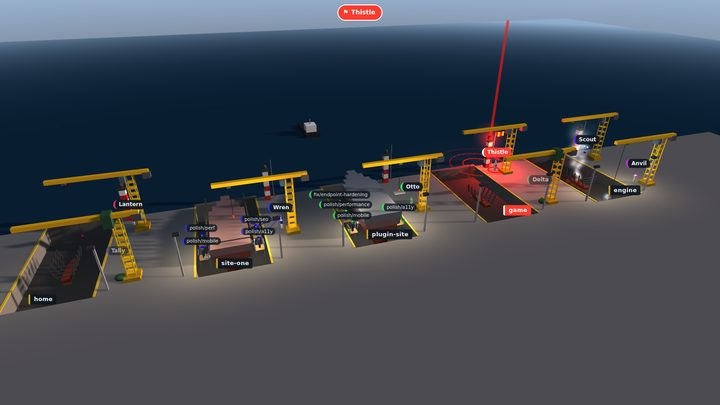
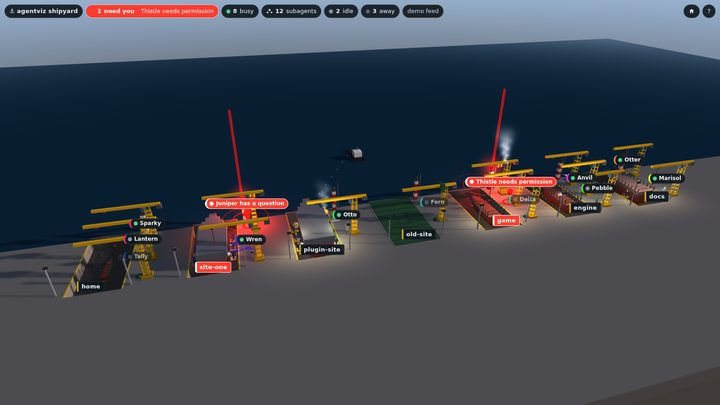
Gallery: hero shots after the kit rollout
Claude-Session: https://claude.ai/code/session_01LYNeukFY6qMGdbKQJnTwr8

Changed region(s): [[0.0, 0.0, 1.0, 0.8], [0.9472, 0.0, 1.0, 0.0593], [0.3972, 0.2963, 0.4583, 0.3259]]

diff --git a/README.md b/README.md
@@ -34,7 +34,7 @@ contents or commands; see [SECURITY.md](SECURITY.md).
 
 ## Gallery
 
-Hero shots from each repo's demo feed (`?fixture=1`). Each repo's README has the full set: close-ups of every state, the selected-agent panel, a phone shot and a short GIF.
+Hero shots from each repo's demo feed (`?fixture=1`), all on the shared kit: the same top bar says who needs you and why (a permission prompt or a question). Each repo's README has the full set: close-ups of every state, the selected-agent panel, a phone shot and a short GIF.
 
 | [**Office**](https://github.com/dmccoystephenson/agentviz-office) | [**Kitchen**](https://github.com/dmccoystephenson/agentviz-kitchen) |
 |---|---|
